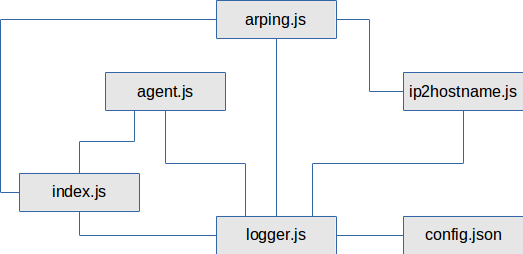
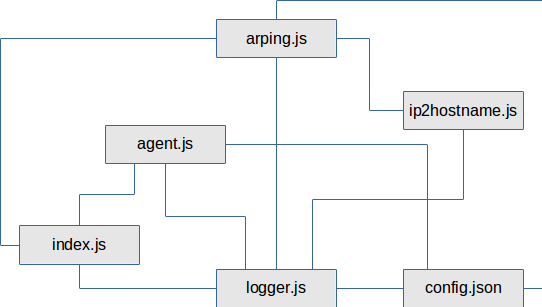
Config changes

Changed region(s): [[0.0, 0.0, 1.0, 1.0], [0.5813, 0.2756, 1.0, 0.6614]]

diff --git a/agent/arping.js b/agent/arping.js
@@ -1,10 +1,13 @@
 var cp = require('child_process');
 var logger = require('./logger.js')
+var fs = require('fs');
 var dns = require('./ip2hostname.js');
+
+var settings = JSON.parse(fs.readFileSync('config.json', encoding="ascii"));
 
 module.exports = function (device, ip, callback) {
 
-var process = cp.spawn('/usr/bin/arping', ['-c 1', '-w 2', '-I', device, ip]);
+var process = cp.spawn(settings.arpingcmd, ['-c 1', '-w 2', '-I', device, ip]);
 
 //console.debug("/usr/bin/arping -c 1 -w 2 -I " + device + " " + ip);
 

diff --git a/agent/agent.js b/agent/agent.js
@@ -1,9 +1,12 @@
 var net = require('net');
+var fs = require('fs');
 var logger = require('./logger.js')
+
+var settings = JSON.parse(fs.readFileSync('config.json', encoding="ascii"));
 
 module.exports = function (data) {
 
-  var client = net.connect(8124, 'localhost');
+  var client = net.connect(settings.agentport, settings.collectorhost);
 
   client.timeout = 1;
 
